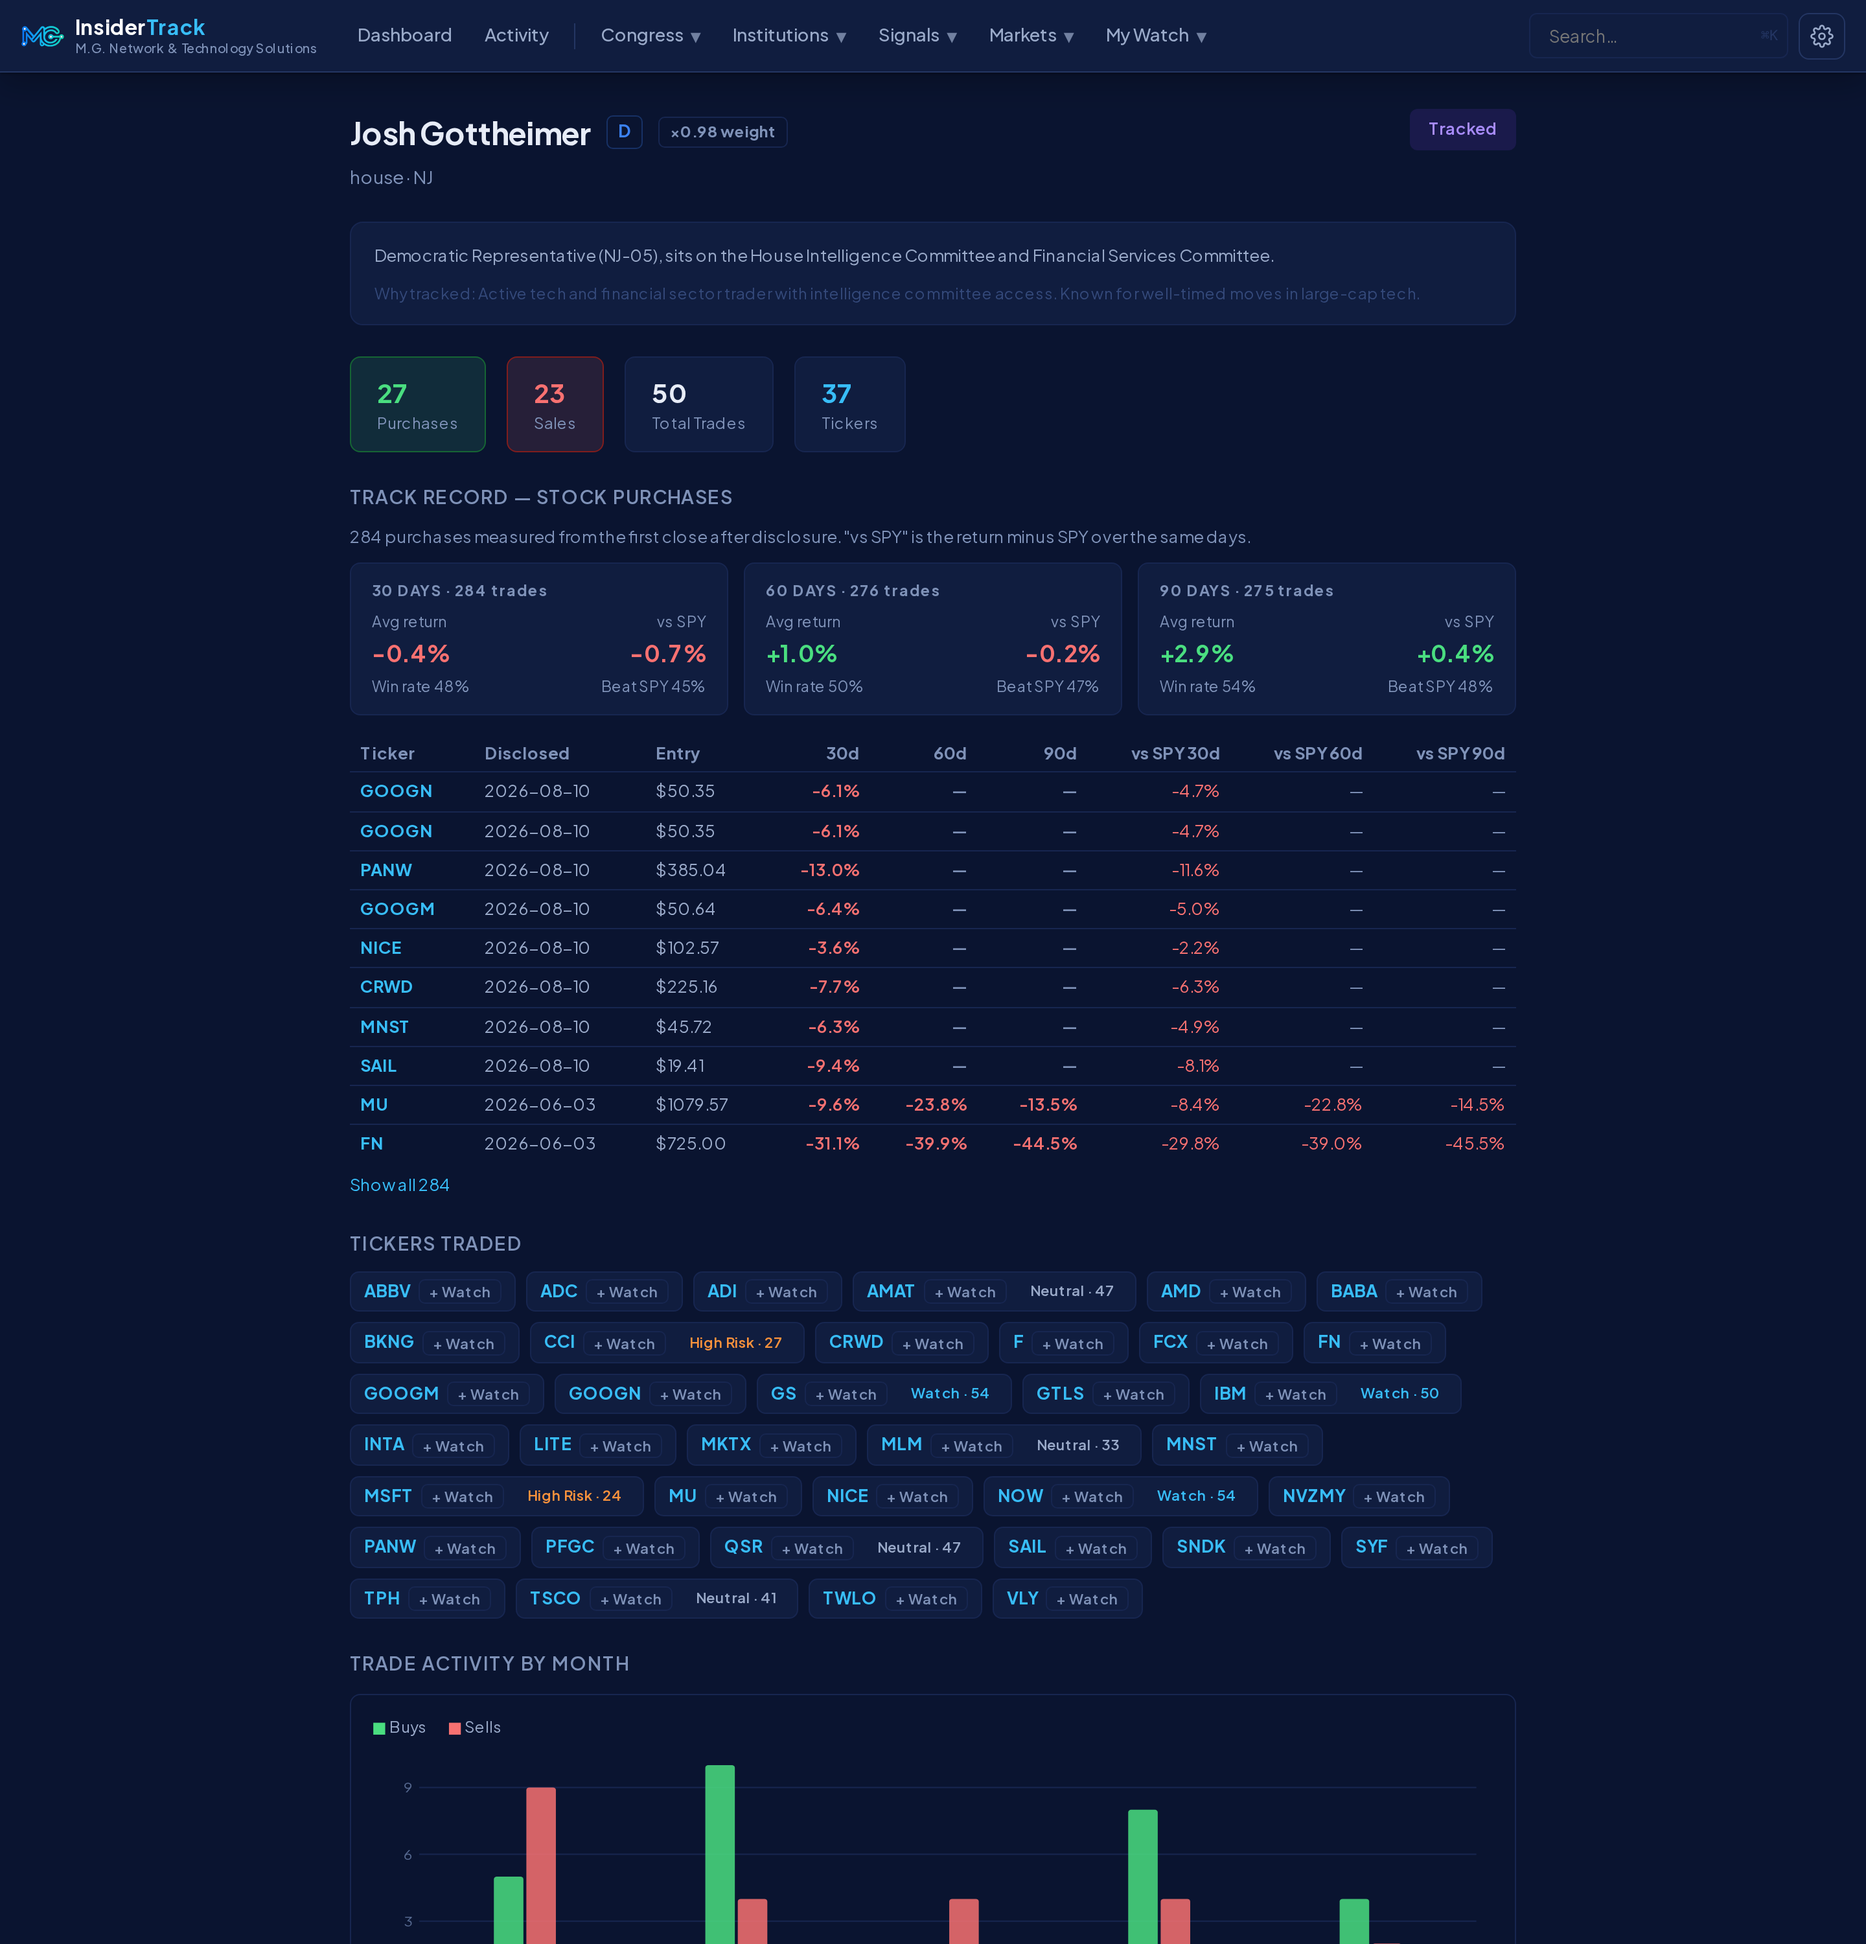
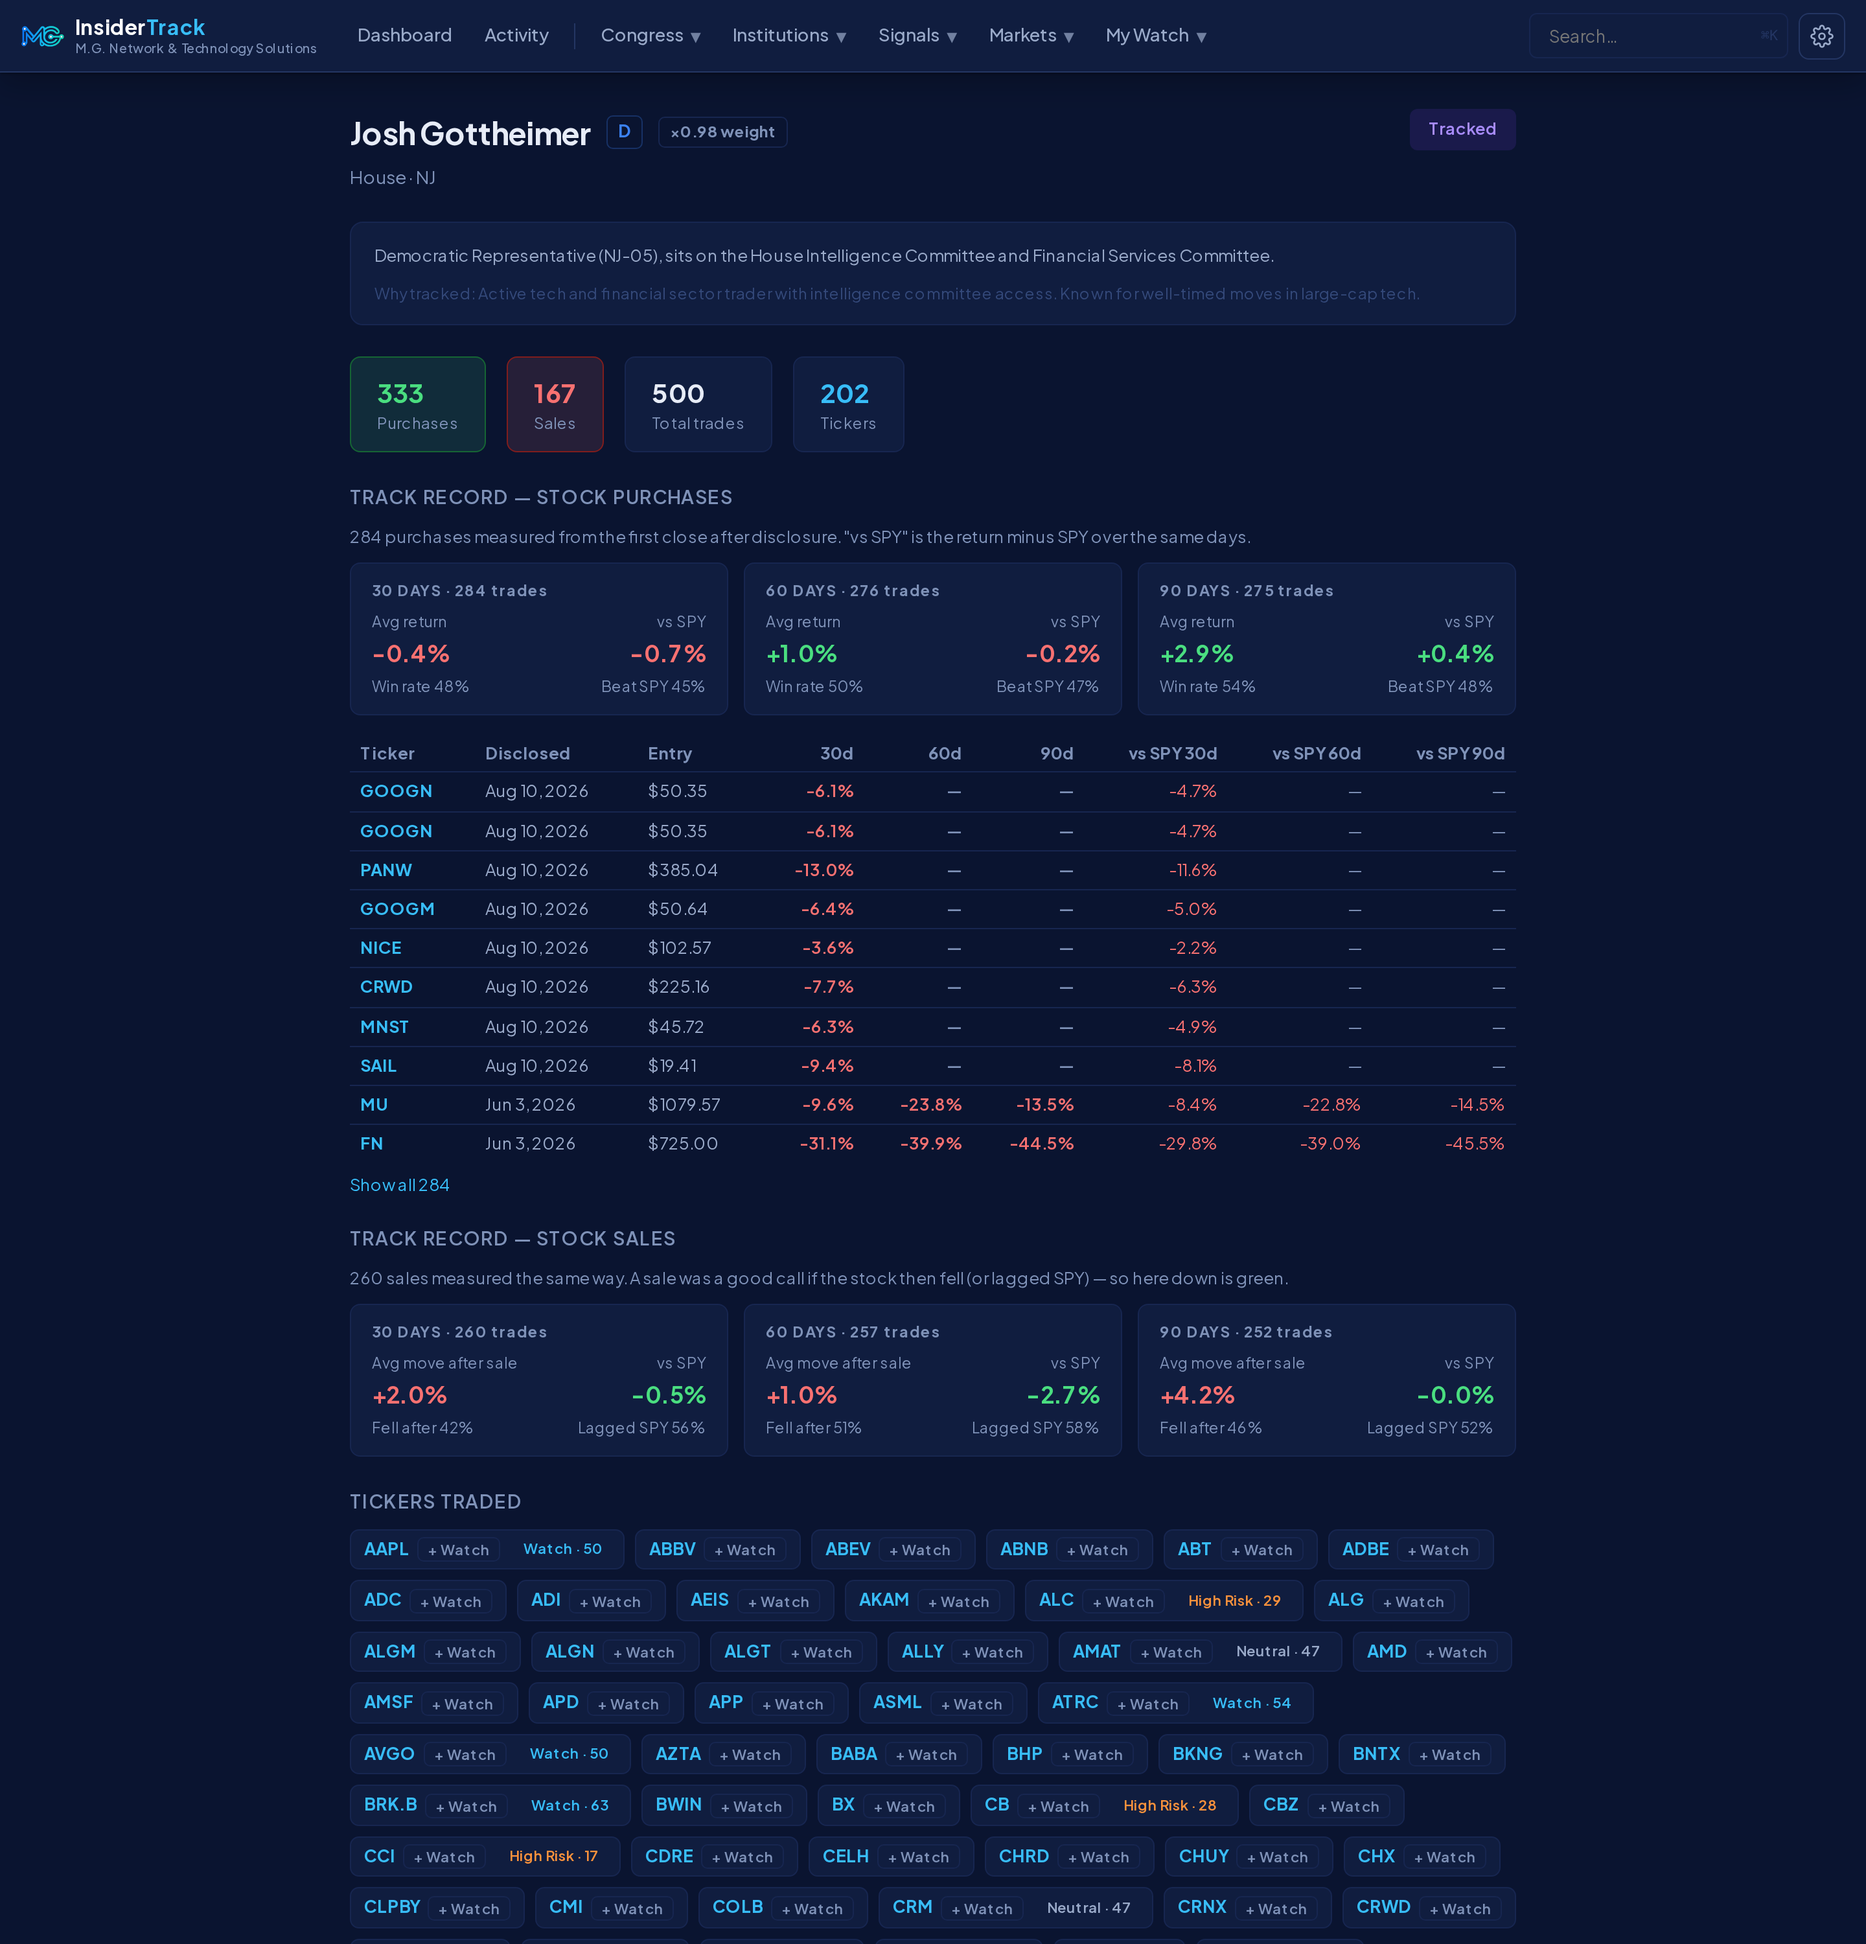
Repo renamed to insidertrack: links, quick start, structure, social preview, About

diff --git a/app/ui_frontend/src/pages/Config.tsx b/app/ui_frontend/src/pages/Config.tsx
@@ -237,8 +237,8 @@ export default function Config() {
         <a href="/privacy" target="_blank" rel="noreferrer" style={{ color: C.textMuted }}>Privacy</a>
         <br />
         InsiderTrack <span data-tip="Application version">v{__APP_VERSION__}</span> · M.G. Network &amp; Technology Solutions ·{" "}
-        <a href="https://github.com/mrgutierrezmario/stock-tracker" target="_blank" rel="noreferrer" style={{ color: C.textMuted }}>source</a> ·{" "}
-        <a href="https://github.com/mrgutierrezmario/stock-tracker/blob/main/LICENSE" target="_blank" rel="noreferrer" style={{ color: C.textMuted }}>PolyForm Noncommercial 1.0.0</a>
+        <a href="https://github.com/mrgutierrezmario/insidertrack" target="_blank" rel="noreferrer" style={{ color: C.textMuted }}>source</a> ·{" "}
+        <a href="https://github.com/mrgutierrezmario/insidertrack/blob/main/LICENSE" target="_blank" rel="noreferrer" style={{ color: C.textMuted }}>PolyForm Noncommercial 1.0.0</a>
       </p>
     </div>
   );

diff --git a/app/ui_frontend/public/privacy.html b/app/ui_frontend/public/privacy.html
@@ -66,7 +66,7 @@
     <p>Questions about this page or the data go to the site operator, M.G. Network and Technology Solutions.</p>
 
     <p class="footer-links"><a href="/">Back to the app</a> · <a href="/guide">User guide</a> ·
-    <a href="https://github.com/mrgutierrezmario/stock-tracker">Source</a></p>
+    <a href="https://github.com/mrgutierrezmario/insidertrack">Source</a></p>
   </div>
 </main>
 </body>

diff --git a/app/ui_frontend/public/guide.html b/app/ui_frontend/public/guide.html
@@ -128,7 +128,7 @@
     </ul>
 
     <p class="footer-links"><a href="/">Back to the app</a> · <a href="/privacy">Privacy</a> ·
-    <a href="https://github.com/mrgutierrezmario/stock-tracker">Source</a></p>
+    <a href="https://github.com/mrgutierrezmario/insidertrack">Source</a></p>
   </div>
 </main>
 </body>

diff --git a/README.md b/README.md
@@ -1,7 +1,7 @@
 # InsiderTrack
 
-[![Release](https://img.shields.io/github/v/release/mrgutierrezmario/stock-tracker?display_name=tag&color=0b74f6)](https://github.com/mrgutierrezmario/stock-tracker/releases)
-[![CI](https://github.com/mrgutierrezmario/stock-tracker/actions/workflows/ci.yml/badge.svg)](https://github.com/mrgutierrezmario/stock-tracker/actions/workflows/ci.yml)
+[![Release](https://img.shields.io/github/v/release/mrgutierrezmario/insidertrack?display_name=tag&color=0b74f6)](https://github.com/mrgutierrezmario/insidertrack/releases)
+[![CI](https://github.com/mrgutierrezmario/insidertrack/actions/workflows/ci.yml/badge.svg)](https://github.com/mrgutierrezmario/insidertrack/actions/workflows/ci.yml)
 [![License: PolyForm Noncommercial 1.0.0](https://img.shields.io/badge/license-PolyForm%20Noncommercial%201.0.0-blue.svg)](LICENSE)
 [![Python 3.11+](https://img.shields.io/badge/python-3.11%2B-3776AB.svg?logo=python&logoColor=white)](app/ui_backend)
 [![FastAPI](https://img.shields.io/badge/FastAPI-009688.svg?logo=fastapi&logoColor=white)](app/ui_backend)
@@ -98,7 +98,8 @@ own machine from free public data sources; cloud AI providers are optional.
 ## Quick Start
 
 ```bash
-cd stock-tracker
+git clone https://github.com/mrgutierrezmario/insidertrack.git
+cd insidertrack
 bash start.sh
 ```
 
@@ -273,7 +274,7 @@ Trigger any job manually from **API docs** at `/docs` or the relevant page in th
 ## Project Structure
 
 ```
-stock-tracker/
+insidertrack/
 ├── start.sh                      ← Run this to start everything
 ├── deploy/                       ← Production stack: compose.yml, Dockerfile, start.sh
 ├── docker-compose.yml            ← Dev-only Postgres fallback for start.sh
@@ -415,7 +416,7 @@ tail -f logs/backend.log
 The version lives in the `VERSION` file at the repository root — the backend,
 the frontend build and `/health` all read it, and Settings shows it in the
 footer. Releases are git tags (`v1.0.0`) with notes on the
-[Releases](https://github.com/mrgutierrezmario/stock-tracker/releases) page;
+[Releases](https://github.com/mrgutierrezmario/insidertrack/releases) page;
 [CHANGELOG.md](CHANGELOG.md) keeps the history. Semantic versioning: patch
 for fixes, minor for features, major for breaking changes.
 
@@ -458,7 +459,7 @@ and what the score was really measuring.
 | When | What |
 |---|---|
 | **May 2026** | First version: congressional trade feed from community mirrors, a composite score, alerts, simulator, watchlist. Five audit passes in the same month closed security, performance and data-integrity gaps and added the first test suite |
-| **September 16, 2026** | The community data mirrors had gone dark; fetchers rewritten against the House Clerk and Senate EFD directly. Deployment rebuilt as a Docker stack with a fixed public URL; the project became a git repository |
+| **September 16, 2026** | The community data mirrors had gone dark; fetchers rewritten against the House Clerk and Senate EFD directly. Deployment rebuilt as a Docker stack with a fixed public URL; the project became a git repository (as `stock-tracker`, renamed `insidertrack` at the public release) |
 | **September 17, 2026** | AI research notes with Claude / Gemini / OpenAI providers and bring-your-own keys |
 | **September 19, 2026** | The data-model pass: every member tracked, owner / asset / direction / dollar columns, options scored by contract, amendments reconciled, three years of history, market-wide Form 4, paper filings read by a vision model, per-member track records feeding the score, scraper health, off-site backups, CI — released as **v1.0.0** |
 

diff --git a/CHANGELOG.md b/CHANGELOG.md
@@ -61,4 +61,4 @@ notes gained Claude / Gemini / OpenAI providers on 2026-09-17; and 2026-09-19
 brought the data-model pass above. Commit history before that date was
 rewritten once to remove attribution trailers; contents are unchanged.
 
-[1.0.0]: https://github.com/mrgutierrezmario/stock-tracker/releases/tag/v1.0.0
+[1.0.0]: https://github.com/mrgutierrezmario/insidertrack/releases/tag/v1.0.0
